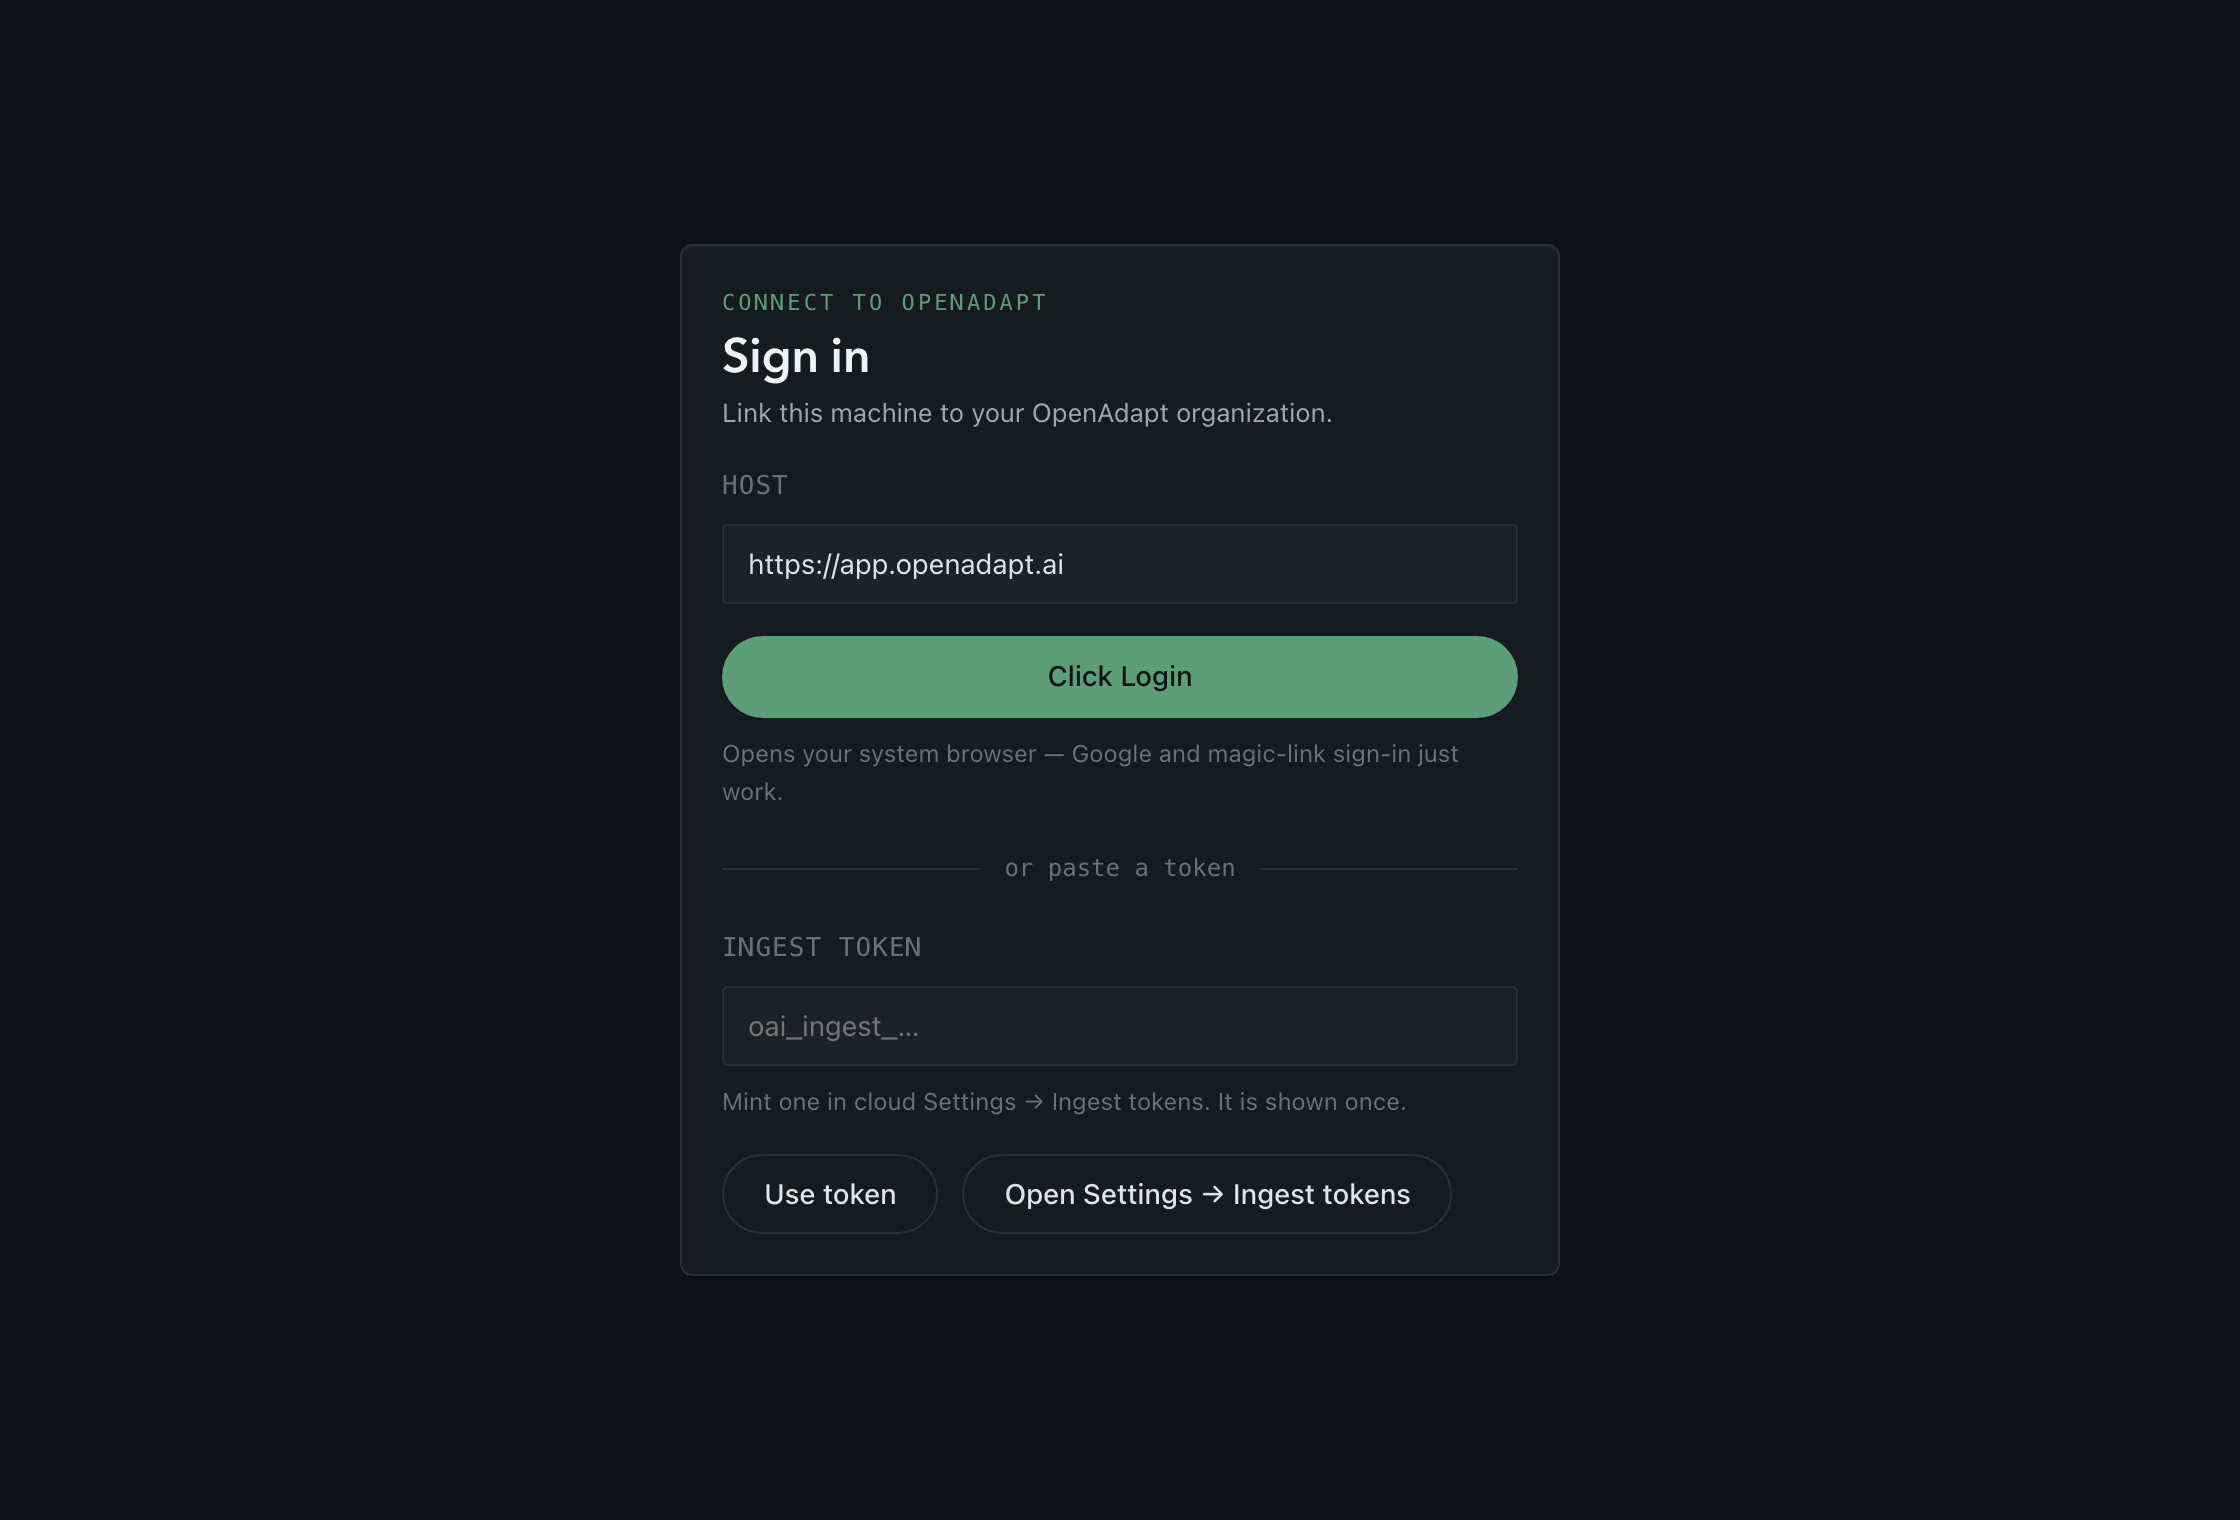
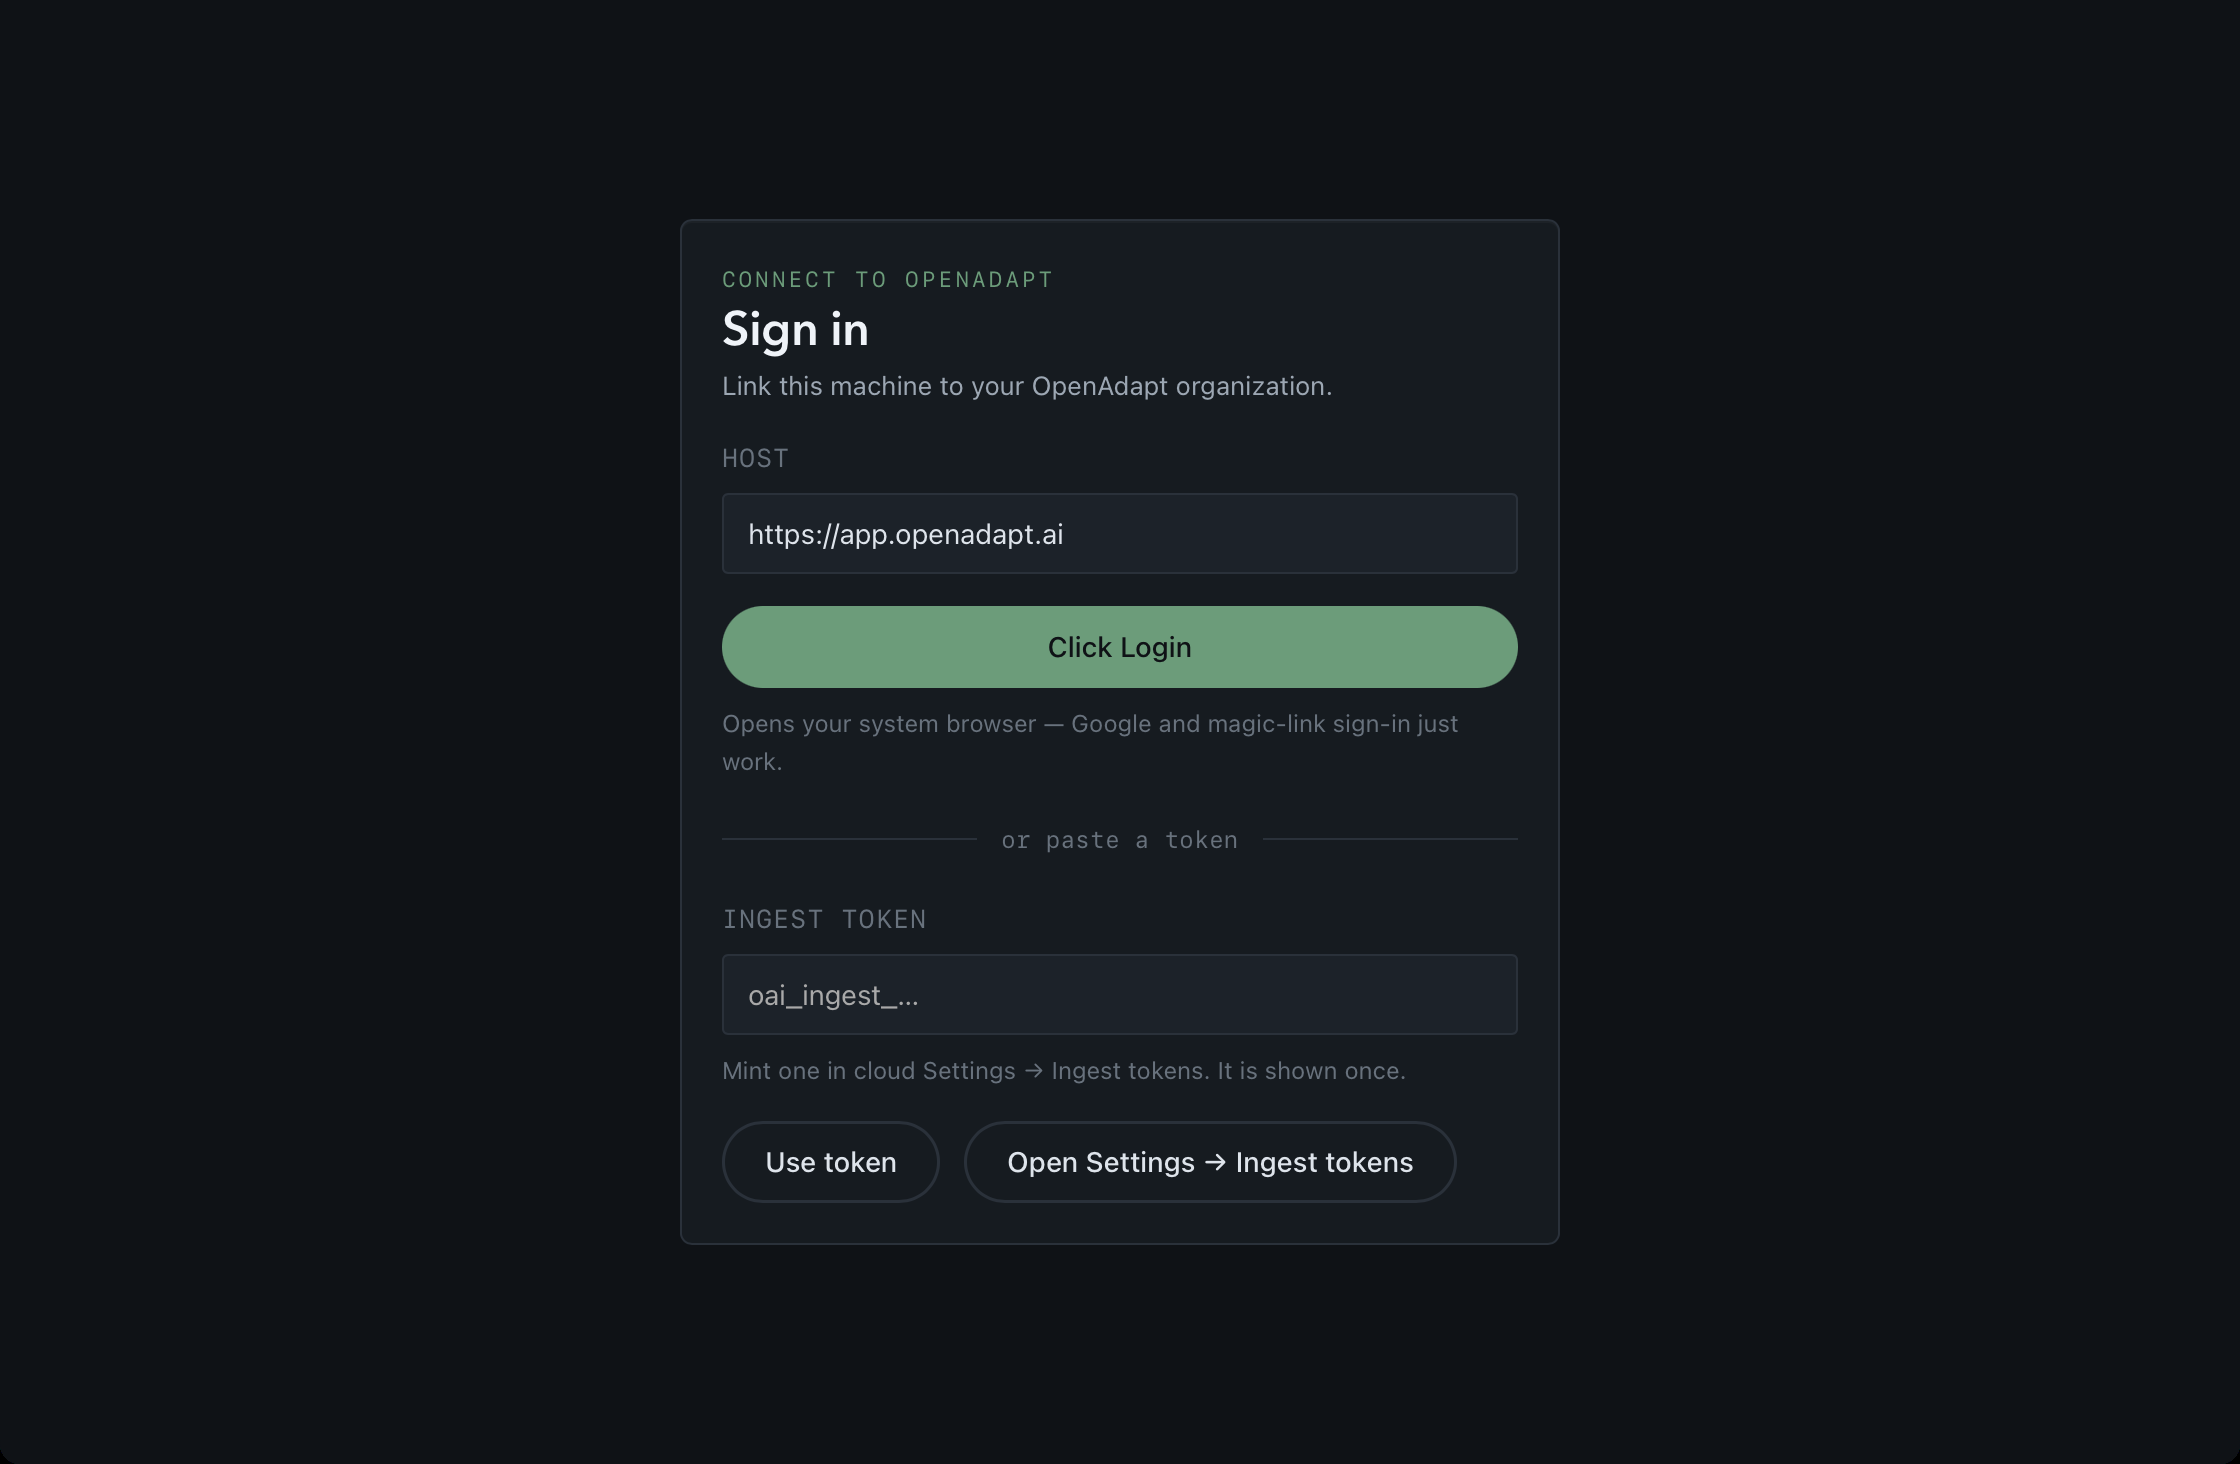
feat(download): show the real running desktop app window (v0.6.2 launch fix) (#219)
The desktop app now launches: desktop-v0.6.2 fixes the startup panic that
issue #26 tracked. Replace the cockpit connect-screen capture with a real
capture of the actual launched app from the published v0.6.2 macOS arm64 DMG
(gh release download, sha256-verified, mounted + installed + `open`ed — the
real packaged Tauri window, not a vite/Playwright render), cropped only to
trim the OS title bar so the WindowFrame chrome reads cleanly.

Copy updates in DesktopPreview:
- "What you're installing" intro now states the app launches and v0.6.2 fixed
  the panic; the window shown is the real app running.
- Cockpit caption calls it the real launched-app window (published v0.6.2 DMG).
- Windows finish-step caption drops the stale "does not launch yet (issue #26),
  so no app window is shown" caveat and credits the v0.6.2 fix.

Provenance + tests:
- MANIFEST.json: cockpit entry re-sourced to desktop-v0.6.2 with the DMG
  sha256, full screencapture method, new content hash and 2240x1464 dims;
  finish note updated to reflect the fix.
- desktopPreview.test.js: new test asserting the cockpit asset's sha256, dims,
  v0.6.2 provenance and honesty phrases; the Windows-flow honesty test now
  asserts the stale caveat is gone and the v0.6.2 fix is credited; cockpit
  dimension assertion updated to 1120x732.

No engine was connected, so only the honest first-run connect screen is shown;
no authenticated/workflow states are fabricated. Experimental/unsigned framing
[…]

Pull request: feat(download): show the real running desktop app window (v0.6.2 launch fix)
## What

The now-fixed OpenAdapt Desktop launches (prerelease **desktop-v0.6.2** fixes the startup panic tracked by openadapt-desktop **issue #26**). The `/download` DesktopPreview previously showed installer + tray shots and a cockpit *render*, with copy hedging that the app "does not launch yet." This PR wires in a **real capture of the actual launched app** and updates the copy to reflect reality.

## Capture provenance (real, verified)

- `gh release download desktop-v0.6.2` → `OpenAdapt-Desktop-Experimental-v0.6.2-macos-arm64-adhoc.dmg`, sha256 **verified** against the release `SHA256SUMS` (`d2f343c7…`).
- Mounted, `ditto`-installed the `.app`, launched with `open` — the **real packaged Tauri window**, not `tauri dev` / `vite build` / Playwright.
- Confirmed it **stays alive** (process observed at 00:50 and 01:36, no panic — the v0.6.2 fix did not regress).
- Window located via Quartz `CGWindowListCopyWindowInfo`, captured at native retina 2x with `screencapture -l<windowID>`, cropped only to trim the OS title bar so the `WindowFrame` chrome reads cleanly (same treatment the tray still already uses).
- Full untrimmed capture + launch process evidence archived in the monorepo at `.private/desktop_capture_2026_07_19/macos/`.

## Copy / honesty changes

- **Intro** ("What you're installing"): now states the app launches and v0.6.2 fixed the panic; the window shown is the real app running.
[…]

diff --git a/tests/desktopPreview.test.js b/tests/desktopPreview.test.js
@@ -105,8 +105,55 @@ test('desktop preview labels match the Experimental reality', () => {
     // Static section: no animation or client state, so it cannot violate the
     // motion tokens or shift layout.
     assert.doesNotMatch(component, /useState|useEffect|setInterval/)
-    assert.match(component, /width="1120"\s+height="760"/)
+    // The cockpit still reserves its real pixel aspect ratio (2240x1464 → the
+    // launched-app capture with the macOS title bar trimmed) so it causes no
+    // layout shift.
+    assert.match(component, /width="1120"\s+height="732"/)
     assert.match(component, /width="290"\s+height="320"/)
+})
+
+test('cockpit still is the real launched v0.6.2 app window with provenance', () => {
+    const component = read('components/DesktopPreview.js')
+    const manifest = JSON.parse(read('public/desktop-preview/MANIFEST.json'))
+
+    // The cockpit asset must be declared, exist on disk, and match its hash.
+    const cockpit = manifest.assets['cockpit-connect.png']
+    assert.ok(cockpit, 'manifest must declare cockpit-connect.png')
+    const bytes = fs.readFileSync(
+        path.join(root, 'public/desktop-preview/cockpit-connect.png')
+    )
+    const sha256 = crypto.createHash('sha256').update(bytes).digest('hex')
+    assert.equal(
+        sha256,
+        cockpit.sha256,
+        'cockpit-connect.png on disk does not match its manifest hash'
+    )
+    assert.equal(
+        cockpit.sha256,
[1 lines of base64/hex data omitted]
+    )
+
+    // Provenance: the published v0.6.2 DMG (the launch-panic fix), captured
+    // from the actual launched app — not a vite/Playwright render.
+    assert.equal(cockpit.source.version, '0.6.2')
+    assert.equal(cockpit.source.release_tag, 'desktop-v0.6.2')
+    assert.match(cockpit.source.capture_method, /launched desktop app/)
+    assert.match(cockpit.source.capture_method, /real packaged Tauri window/)
+    assert.match(cockpit.source.capture_method, /screencapture/)
+
+    // Real recorded dimensions (title bar trimmed): 2240x1464.
+    assert.equal(cockpit.width, 2240)
+    assert.equal(cockpit.height, 1464)
+
+    // The copy states the app now launches and names the v0.6.2 fix; the stale
+    // "does not launch yet" claim is gone.
+    assert.match(component, /v0\.6\.2 fixes it/)
+    assert.match(component, /the real app running/)
+    assert.match(
+        component,
+        /the real window from the launched Experimental app/
+    )
+    assert.doesNotMatch(component, /does not launch yet/)
 })
 
 test('windows install-flow captions stay honest about the unsigned prerelease', () => {
@@ -127,15 +174,25 @@ test('windows install-flow captions stay honest about the unsigned prerelease', 
         'windows section must call the Unknown Publisher warning expected'
     )
 
-    // The installer stills must NOT imply the app runs — the shipped build
-    // panics at launch (openadapt-desktop issue #26). The finish caption says
-    // so, and no app-window image is rendered anywhere on the page.
+    // The app now launches: v0.6.2 fixes the earlier startup panic
+    // (openadapt-desktop issue #26). The finish caption references the fix and
+    // points to the real running connect screen, and the stale "does not
+    // launch / no app window" claim is gone.
+    assert.doesNotMatch(
+        component,
+        /does not launch yet|no app window is shown/,
+        'the stale issue #26 launch caveat must be removed'
+    )
     assert.match(
         component,
-        /does not launch yet \(issue #26\)/,
-        'the finish caption must not imply the app runs'
+        /v0\.6\.2 fixes it/,
+        'the finish caption must credit the v0.6.2 launch fix'
     )
-    assert.doesNotMatch(component, /app-window|app_window/i)
+    assert.match(
+        component,
+        /issue #26/,
+        'the finish caption must still name the fixed issue for continuity'
+    )
 
     // The Windows install stills reserve their real pixel aspect ratio so the
     // three-up strip causes no layout shift, and there is still no client

diff --git a/components/DesktopPreview.js b/components/DesktopPreview.js
@@ -5,9 +5,16 @@
  * Honesty contract (enforced by tests/desktopPreview.test.js and documented in
  * public/desktop-preview/MANIFEST.json):
  *  - Every image is a capture of real product code in the state it honestly
- *    renders: the cockpit's connect screen without a running engine, and the
- *    separately installed openadapt-tray package in its standalone state.
- *  - No fabricated UI, no synthetic screens, no retouching beyond cropping.
+ *    renders: the cockpit's connect screen from the actual launched desktop
+ *    app (the published v0.6.2 DMG, which fixes the earlier launch panic —
+ *    issue #26) with no engine attached, and the separately installed
+ *    openadapt-tray package in its standalone state.
+ *  - No fabricated UI, no synthetic screens, no retouching beyond cropping
+ *    (the cockpit still is cropped to the webview content; the app's real
+ *    macOS title bar is trimmed and the frame below supplies representative
+ *    chrome, as the tray still is cropped to its menu).
+ *  - No authenticated or workflow states: with no engine connected, only the
+ *    honest first-run connect screen exists, and that is all that is shown.
  *  - The tray is NOT part of the installers on this page and is not described
  *    as controlling a released desktop build (no released build provides the
  *    companion service it expects).
@@ -17,7 +24,7 @@
  * handling.
  */
 
-const COCKPIT_CAPTURE_VERSION = '0.6.1'
+const COCKPIT_CAPTURE_VERSION = '0.6.2'
 const TRAY_PACKAGE_VERSION = '0.1.1'
 const WINDOWS_INSTALLER_VERSION = '0.6.1'
 
@@ -88,7 +95,7 @@ const WINDOWS_INSTALLER_STEPS = [
         alt: 'Completing page reading "Completing OpenAdapt Desktop Setup" with "Run OpenAdapt Desktop" and "Create desktop shortcut" checked.',
         testid: 'desktop-preview-windows-finish',
         caption:
-            'Finish — files are placed. The shipped prerelease does not launch yet (issue #26), so no app window is shown.',
+            'Finish — files are placed and the app launches. Earlier prereleases panicked on startup (issue #26); v0.6.2 fixes it — the running connect screen above is that first launch.',
     },
 ]
 
@@ -106,7 +113,9 @@ export default function DesktopPreview() {
                 <p className="mt-3 max-w-2xl text-sm leading-relaxed text-ink-2">
                     These are unretouched captures of the actual Experimental
                     surfaces — shown in the state a first launch honestly
-                    renders, not a mockup of a finished product.
+                    renders, not a mockup of a finished product. The desktop app
+                    now launches: v0.6.2 fixes the earlier startup panic (issue
+                    #26), and the window below is the real app running.
                 </p>
 
                 <div className="mt-8 grid grid-cols-1 items-start gap-8 md:grid-cols-5">
@@ -115,8 +124,8 @@ export default function DesktopPreview() {
                             <img
                                 src="/desktop-preview/cockpit-connect.png"
                                 width="1120"
-                                height="760"
-                                alt="OpenAdapt Desktop connect screen: a Sign in card with a host field, a browser sign-in button, and an ingest-token paste option."
+                                height="732"
+                                alt="OpenAdapt Desktop connect screen from the real launched app: a Sign in card with a host field, a browser sign-in button, and an ingest-token paste option."
                                 loading="lazy"
                                 decoding="async"
                                 className="block h-auto w-full"
@@ -127,14 +136,14 @@ export default function DesktopPreview() {
                             <strong className="font-medium text-ink-2">
                                 The desktop app&apos;s connect screen
                             </strong>{' '}
-                            — rendered from the Experimental prerelease&apos;s
-                            unmodified interface code (v
-                            {COCKPIT_CAPTURE_VERSION}) with no engine attached.
-                            First launch asks you to sign in or paste an ingest
-                            token; workflow authoring surfaces open after the
-                            engine connects. Experimental prerelease, unsigned
-                            or ad-hoc-signed builds — see the release notes
-                            before installing.
+                            — the real window from the launched Experimental app
+                            (the published v{COCKPIT_CAPTURE_VERSION} DMG, which
+                            fixes the earlier startup panic, issue #26) with no
+                            engine attached. First launch asks you to sign in or
+                            paste an ingest token; workflow authoring surfaces
+                            open after the engine connects. Experimental
+                            prerelease, unsigned or ad-hoc-signed builds — see
+                            the release notes before installing.
                         </figcaption>
                     </figure>
 